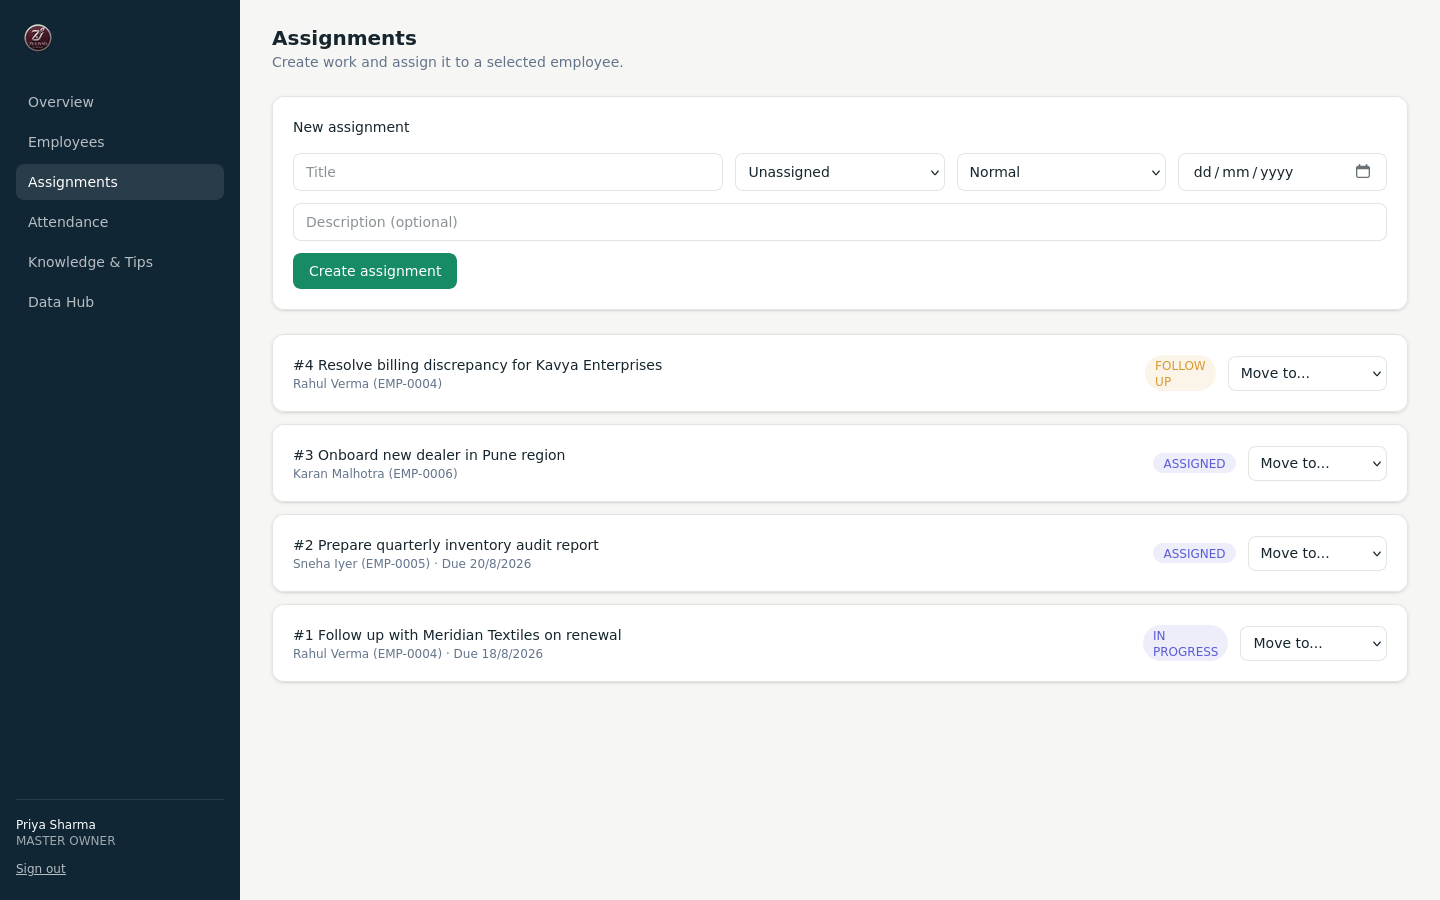
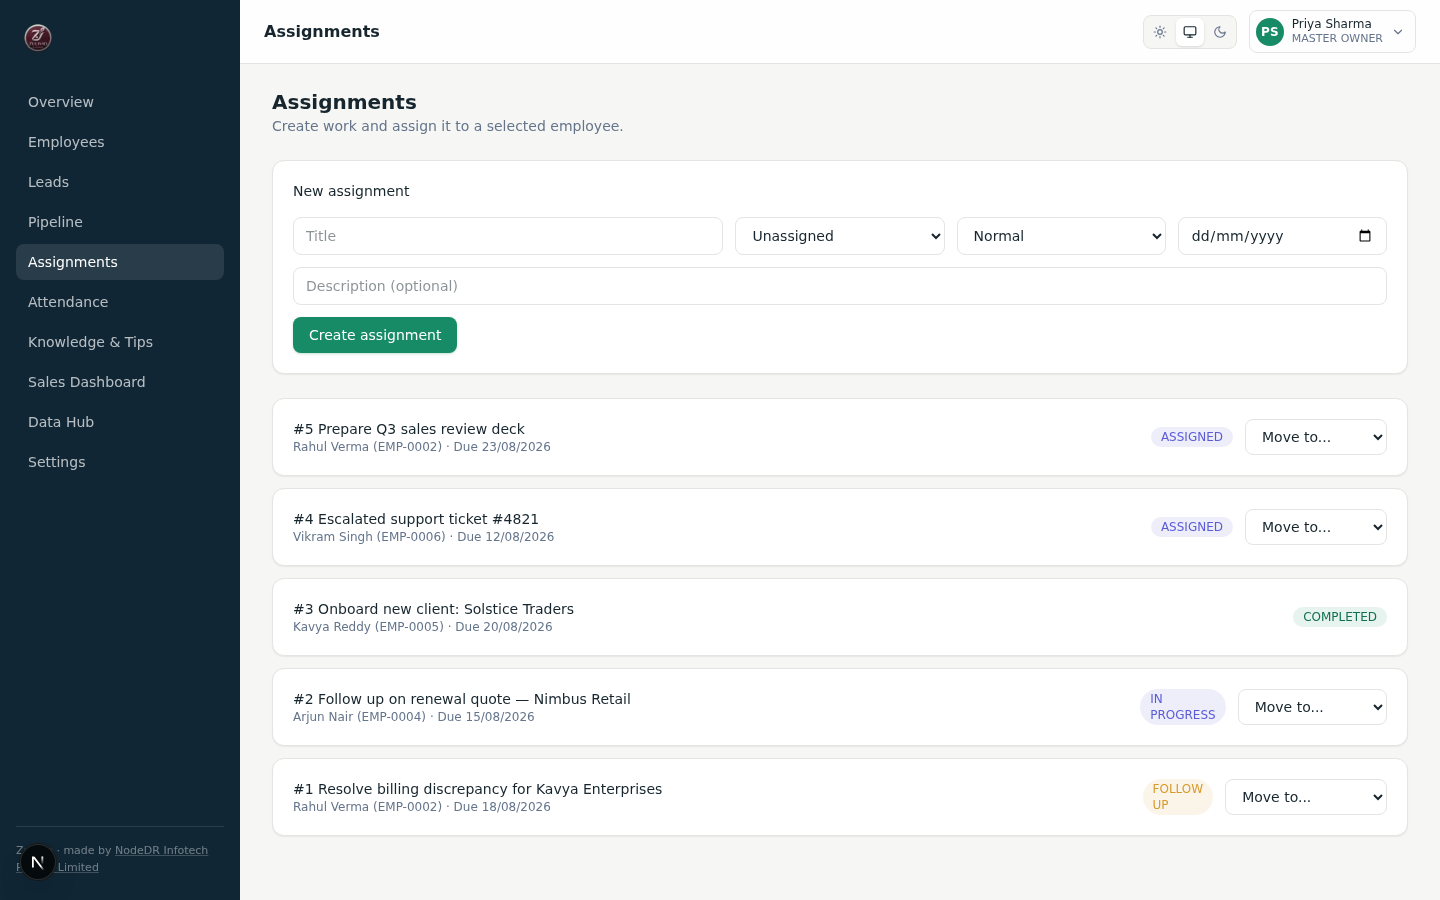
Refresh screenshots against the current app; fix the knowledge PDF file input
Screenshots (README, CasaOS listing) were stale — showed a 6-item nav
missing Leads/Pipeline/Sales Dashboard/Settings entirely, plain
"Sign out" text instead of the current avatar dropdown, no
theme toggle. Retook all of them from a real running instance seeded
with realistic data (org chart across all five roles, assignments in
every state, live attendance including one on break, leads through the
qualification pipeline with territory tags, opportunities across
pipeline stages with forecast-category overrides, a published knowledge
doc, a tip, two assignment rules — one territory-mode, one round-robin
— and a verified backup record). Added leads/pipeline/sales-dashboard/
settings to the README's screenshot gallery, since those didn't exist
last time this was captured.

Also fixed the knowledge base's PDF upload — same bare
<input type="file"> visibility issue already fixed for CSV import, just
missed on this page. FileInput now takes a `label` prop so each usage
reads correctly ("Choose CSV file" vs "Choose PDF file") instead of a
hardcoded CSV-specific label.

diff --git a/apps/web/src/app/(app)/knowledge/page.tsx b/apps/web/src/app/(app)/knowledge/page.tsx
@@ -3,7 +3,7 @@
 import { useState } from "react";
 import { useMutation, useQuery, useQueryClient } from "@tanstack/react-query";
 import { api, ApiError } from "@/lib/api";
-import { Badge, Button, Card, ErrorState, Input, Spinner } from "@/components/ui";
+import { Badge, Button, Card, ErrorState, FileInput, Input, Spinner } from "@/components/ui";
 import { TipsFeed, TrainingFeed } from "@/components/tips-and-training";
 import { useCurrentEmployee, isManagerOrAbove } from "@/lib/use-current-employee";
 
@@ -89,13 +89,7 @@ export default function KnowledgePage() {
               value={description}
               onChange={(e) => setDescription(e.target.value)}
             />
-            <input
-              type="file"
-              accept="application/pdf"
-              onChange={(e) => setFile(e.target.files?.[0] ?? null)}
-              className="text-sm"
-              required
-            />
+            <FileInput value={file} onChange={setFile} accept="application/pdf" label="Choose PDF file" required />
             <div className="md:col-span-3">
               <Button type="submit" disabled={upload.isPending}>
                 {upload.isPending ? "Uploading..." : "Upload PDF"}

diff --git a/apps/web/src/components/ui.tsx b/apps/web/src/components/ui.tsx
@@ -70,11 +70,13 @@ export function FileInput({
   onChange,
   accept,
   required,
+  label = "Choose file",
 }: {
   value: File | null;
   onChange: (file: File | null) => void;
   accept?: string;
   required?: boolean;
+  label?: string;
 }) {
   const inputRef = useRef<HTMLInputElement>(null);
   const id = useId();
@@ -91,7 +93,7 @@ export function FileInput({
         onChange={(e) => onChange(e.target.files?.[0] ?? null)}
       />
       <Button type="button" variant="secondary" onClick={() => inputRef.current?.click()}>
-        Choose CSV file
+        {label}
       </Button>
       <span className={clsx("truncate text-sm", value ? "text-ink" : "text-muted")}>
         {value ? value.name : "No file chosen"}

diff --git a/apps/web/src/app/(app)/leads/page.tsx b/apps/web/src/app/(app)/leads/page.tsx
@@ -201,7 +201,7 @@ export default function LeadsPage() {
             <code className="rounded bg-canvas px-1">company</code>, <code className="rounded bg-canvas px-1">source</code>.
           </p>
           <div className="flex flex-col items-start gap-3">
-            <FileInput value={importFile} onChange={setImportFile} accept=".csv,text/csv" />
+            <FileInput value={importFile} onChange={setImportFile} accept=".csv,text/csv" label="Choose CSV file" />
             <Button
               variant="secondary"
               disabled={!importFile || importCsv.isPending}

diff --git a/apps/web/src/app/(app)/data-hub/page.tsx b/apps/web/src/app/(app)/data-hub/page.tsx
@@ -132,7 +132,7 @@ function CsvImportCard({
         }}
         className="flex flex-col items-start gap-3"
       >
-        <FileInput value={file} onChange={setFile} accept=".csv,text/csv" required />
+        <FileInput value={file} onChange={setFile} accept=".csv,text/csv" label="Choose CSV file" required />
         <Button type="submit" disabled={!file || importCsv.isPending}>
           {importCsv.isPending ? "Importing..." : "Import"}
         </Button>

diff --git a/README.md b/README.md
@@ -80,10 +80,14 @@ sample data) — not mockups.
 | ![Employee front page](docs/screenshots/employee-front-page.png) | ![Assignments](docs/screenshots/assignments.png) |
 
 <details>
-<summary>More screenshots (attendance, knowledge base, data hub, sign in)</summary>
+<summary>More screenshots (Sales CRM, Settings, attendance, knowledge base, data hub, sign in)</summary>
 
 | | |
 |---|---|
+| **Leads** — qualification pipeline, CSV import, territory/capacity assignment rules | **Pipeline** — Kanban board across the default 6-stage pipeline |
+| ![Leads](docs/screenshots/leads.png) | ![Pipeline](docs/screenshots/pipeline.png) |
+| **Sales dashboard** — pipeline value, lead funnel, forecast by category and by rep | **Settings** — S3 backup connection, schedule, and history (Master Owner) |
+| ![Sales dashboard](docs/screenshots/sales-dashboard.png) | ![Settings](docs/screenshots/settings.png) |
 | ![Attendance](docs/screenshots/attendance.png) | ![Knowledge base](docs/screenshots/knowledge.png) |
 | ![Data Hub](docs/screenshots/data-hub.png) | ![Sign in](docs/screenshots/login.png) |
 
